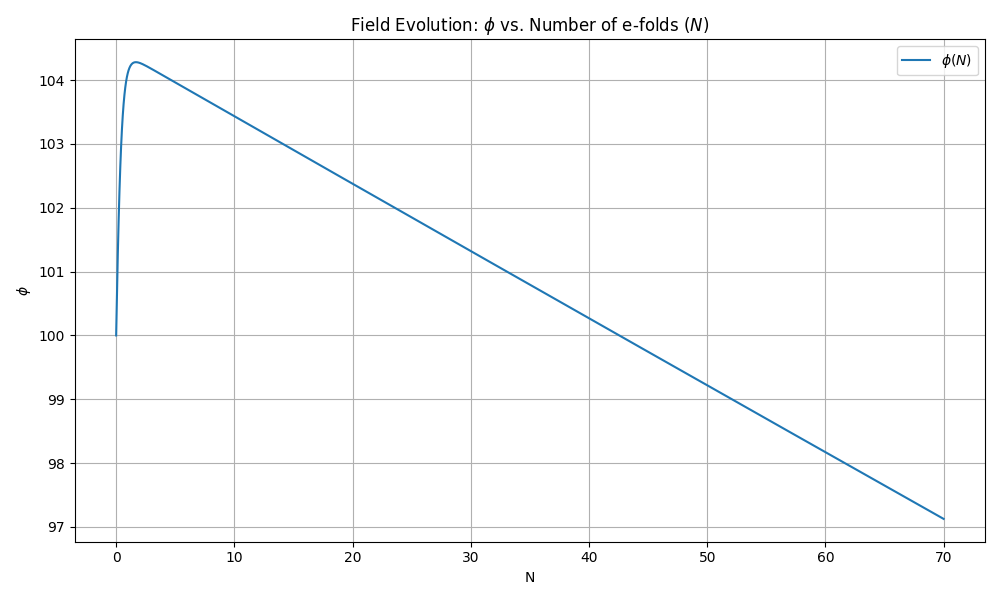
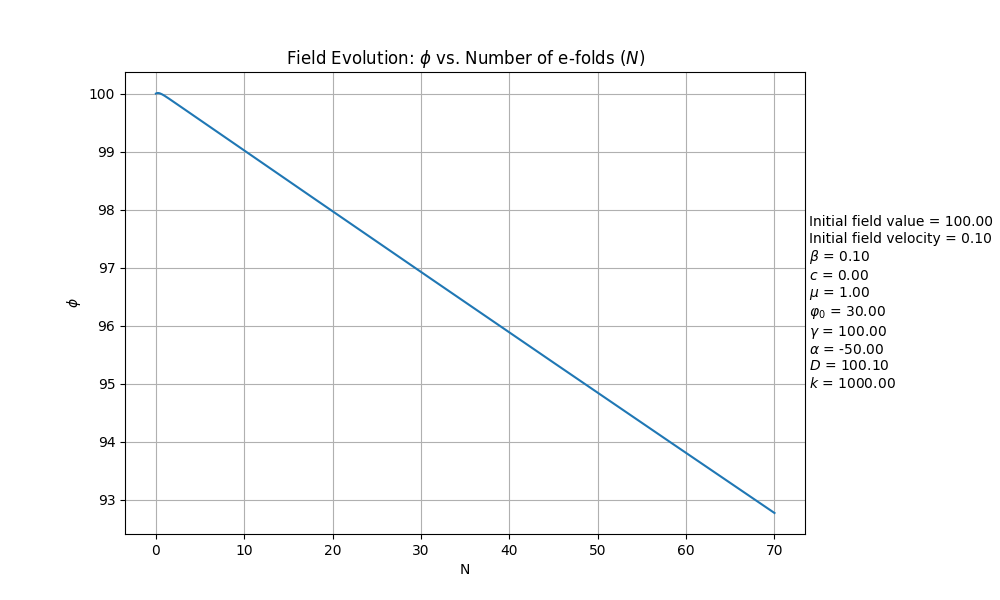
Cleaned up Field vs N graph

diff --git a/Python/Full field as func of N.py b/Python/Full field as func of N.py
@@ -13,20 +13,22 @@ import numpy as np
 import matplotlib.pyplot as plt
 from sympy import *
 from scipy.integrate import solve_ivp
+import matplotlib.gridspec as gridspec
+
 
 # Parameters
 Nend = 70         # End of efolds
 m = 1             # mass of inflaton
 M = 20            # Planck mass
 Mp = sqrt(2)*M   # Actual Planck mass (lol)
-phi0 = 3        # non-propagating field 
-g = 20             # model parameter gamma
+phi0 = 30        # non-propagating field 
+g = 100             # model parameter gamma
 a = -50            # model parameter alpha
-b = 1             # model parameter beta
+b = 0.1             # model parameter beta
 D = np.sqrt(g**2 - 4*a*b)  
-k = 50             # model parameter k
+k = 1000             # model parameter k
 sf = 1000000      # overall scale factor in potential
-c = -2            # integration constant 
+c = 0            # integration constant 
 
 eh = 0.02 #initial slow roll parameter (1/2)*(dp/dN)**2
 
@@ -64,11 +66,9 @@ def de(N, V):
     dp2_dN2 = 1/Ka * (-3 * Ka * p_ + 0.5*Ka**2/Mp**2 * p_**3 - 0.5 * Kd * p_**2 + (3*Mp**2 - Ka* 0.5 * p_**2) * lv)
     return [p_, dp2_dN2]
 
-
 # Initial conditions
-p0 = 1.5  # Initial field value
+p0 = 100  # Initial field value
 p_0 = 0.1  # Initial dphi/dN (velocity)
-
 
 V0 = [p0, p_0]  # Initial conditions vector
 
@@ -81,15 +81,37 @@ ps = sol.y[0]  # φ(N)
 ps_ = sol.y[1]  # dφ/dN
 
 
-# Plot the field evolution φ(N)
-plt.figure(figsize=(10, 6))
-plt.plot(Nr, ps, label=r"$\phi(N)$")
-#plt.plot(Nr, sr, 'o', label = "Slow roll conditions met")
-plt.title("Field Evolution: $\phi$ vs. Number of e-folds ($N$)")
-plt.xlabel("N")
-plt.ylabel(r"$\phi$")
-plt.legend()
-plt.grid()
+fig = plt.figure(figsize=(10,6))
+gs = gridspec.GridSpec(1, 2, width_ratios=[15, 2], wspace=0.01)
+
+# Main plot in the first column:
+ax = fig.add_subplot(gs[0])
+ax.plot(Nr, ps, label=r"$\phi(N)$")
+ax.set_title("Field Evolution: $\phi$ vs. Number of e-folds ($N$)")
+ax.set_xlabel("N")
+ax.set_ylabel(r"$\phi$")
+ax.grid(True)
+
+# Parameters to display
+parameters = [
+    (r'Initial field value', p0),
+    (r'Initial field velocity', p_0),
+    (r'$\beta$', b),
+    (r"$c$", c),
+    (r'$\mu$', m),
+    (r'$\varphi_0$', phi0),
+    (r'$\gamma$', g),
+    (r'$\alpha$', a),
+    (r'$D$', D),
+    (r'$k$', k)
+]
+# Create a second axes for the parameter text:
+ax_text = fig.add_subplot(gs[1])
+ax_text.axis('off')  # Hide axes
+text_str = "\n".join([f"{name} = {value:.2f}" for name, value in parameters])
+ax_text.text(0, 0.5, text_str, transform=ax_text.transAxes,
+             fontsize=10, verticalalignment='center', horizontalalignment='left')
+
 plt.tight_layout()
-plt.savefig(r"C:\Users\Asus\Documents\Cambridge\Project\Inflation Project\Git Repo\Part-III-Inflation-Project\Python\Figures\New Field as a function of N")
+plt.savefig(r"C:\Users\Asus\Documents\Cambridge\Project\Inflation Project\Git Repo\Part-III-Inflation-Project\Python\Figures\New Field as a function of N.png")
 plt.show()
